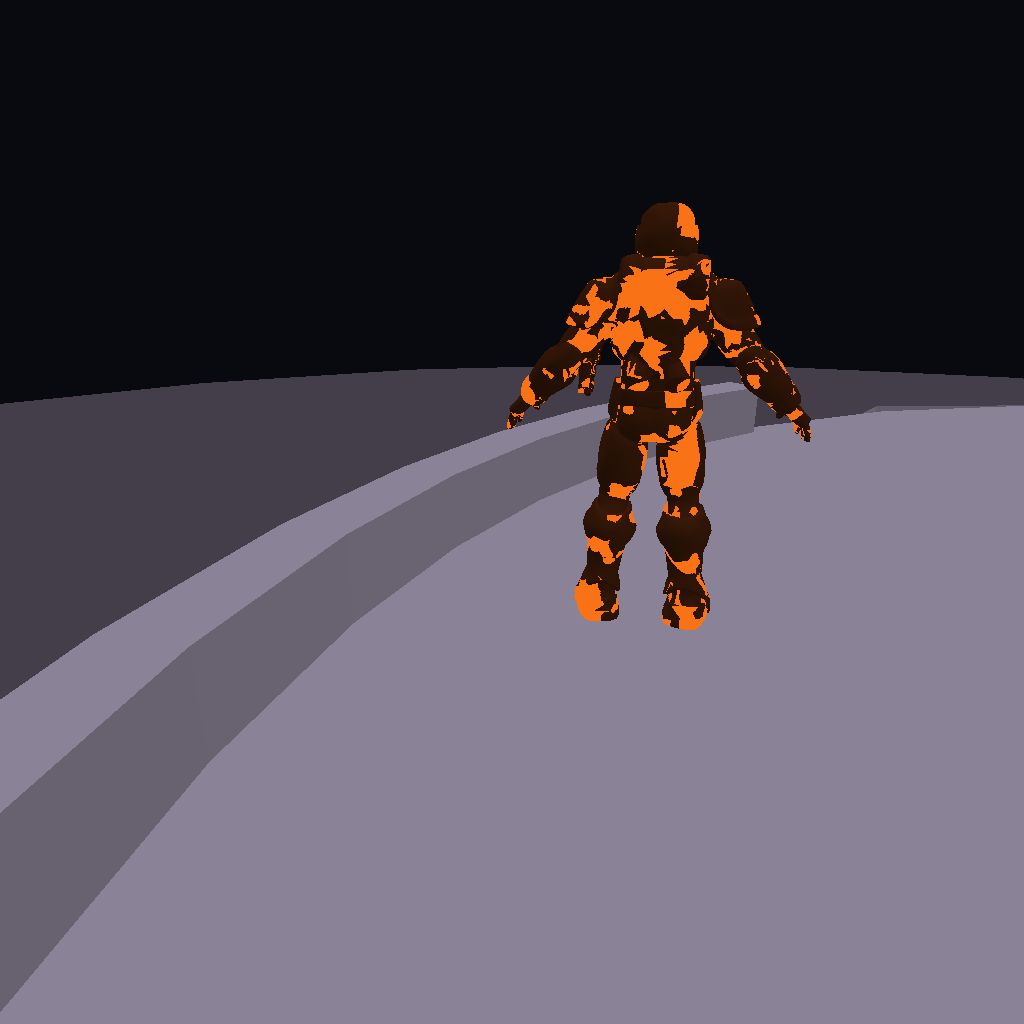
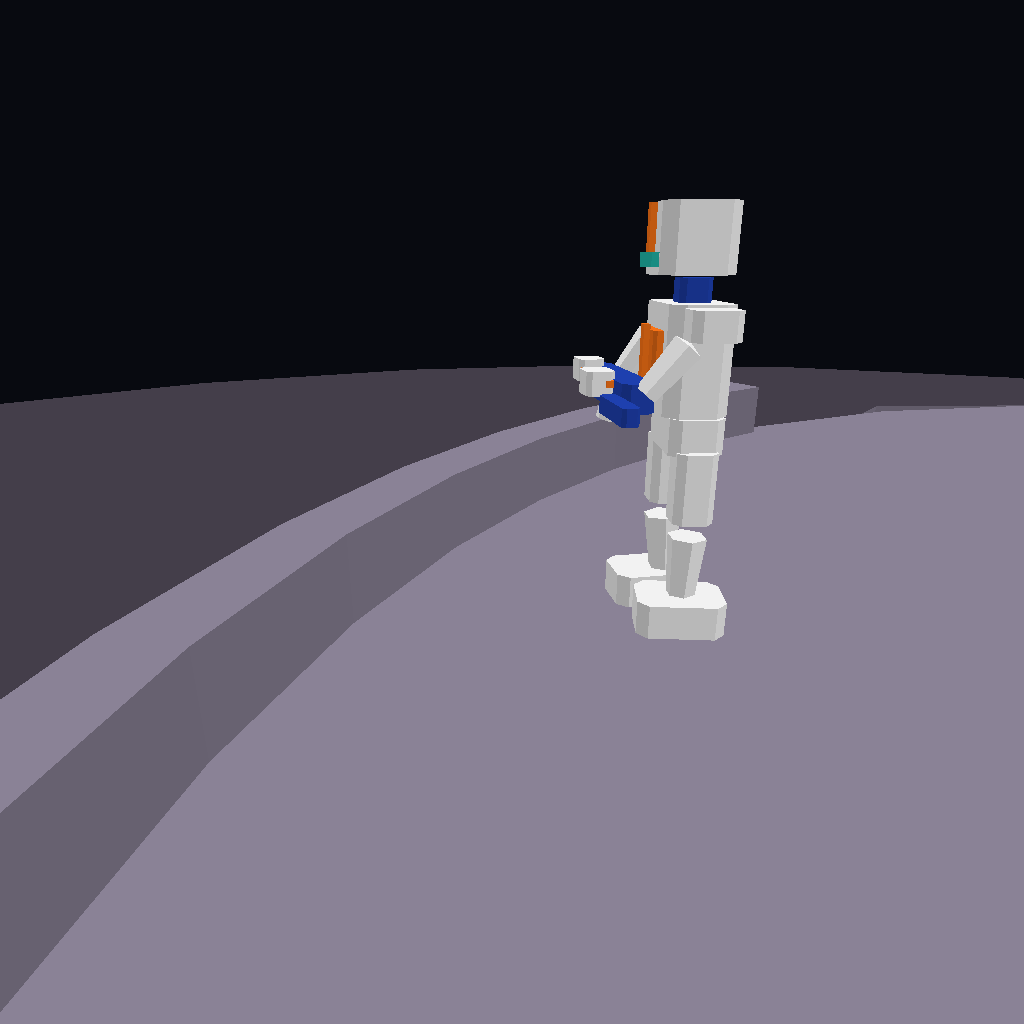
Keep the rail-edge still on the procedural scale figure.
ef528cb painted the Meshy hero cast into the curb shot. The swarmer
stays at deck center and never enters the frame, so that swap was not
a bug-cast change. The curb, deck, and sky already matched main; only
the figure differed. The scale figure is the procedural starter hero
again, and the committed still is the main frame.

Changed region(s): [[0.5, 0.1875, 0.8125, 0.625]]

diff --git a/crates/meshes/src/preview.rs b/crates/meshes/src/preview.rs
@@ -53,7 +53,6 @@ pub fn raster_model(id: &str, width: u32, height: u32) -> Vec<u8> {
             [0.0, 0.0, 0.0],
             bg,
             &[],
-            None,
         );
     }
     let palette = palette_of();
@@ -509,7 +508,7 @@ fn draw(
     open_shell: bool,
     camera: Option<([f32; 3], [f32; 3], f32)>,
 ) -> Vec<u8> {
-    draw_scene(visual, palette, width, height, silhouette, open_shell, camera, [0.0, 0.0, 0.0], BG, &[], None)
+    draw_scene(visual, palette, width, height, silhouette, open_shell, camera, [0.0, 0.0, 0.0], BG, &[])
 }
 
 /// Bug at `shift`, plus optional world meshes (the arena), on `bg`.
@@ -524,7 +523,6 @@ fn draw_scene(
     shift: [f32; 3],
     bg: [u8; 3],
     extras: &[(&crate::MeshData, [f32; 4])],
-    hero_at: Option<[f32; 3]>,
 ) -> Vec<u8> {
     let w = width.max(8);
     let h = height.max(8);
@@ -612,9 +610,6 @@ fn draw_scene(
             }
         }
     }
-    if let Some(at) = hero_at {
-        paint_hero_figure(&mut color, &mut depth, &cam, at, eye);
-    }
     color
 }
 
@@ -690,20 +685,6 @@ fn paint_feedback_parts(
                 fill_tri(color, depth, cam.w, cam.h, projected[0], projected[1], projected[2], rgb);
             }
         }
-    }
-}
-
-fn paint_hero_figure(color: &mut [u8], depth: &mut [f32], cam: &crate::PaintCam, at: [f32; 3], eye: [f32; 3]) {
-    let content = gemini_sim::content::Content::embedded();
-    let id = content.hero.id.as_str();
-    let fx = eye[0] - at[0];
-    let fz = eye[2] - at[2];
-    let yaw = (-fx).atan2(-fz).to_degrees();
-    let pivot = crate::body_pivot(&content, id);
-    let palette = |name: &str| content.palette.key(name);
-    for mesh in crate::hero_pieces(id) {
-        let place = crate::hero_placement(&content, mesh, at, pivot, yaw, 0.0);
-        crate::cast::paint(color, depth, mesh, place, &palette, cam, false);
     }
 }
 
@@ -852,7 +833,6 @@ pub fn raster_in_arena(id: &str, width: u32, height: u32) -> Vec<u8> {
         bug_at,
         bg,
         &extras,
-        None,
     )
 }
 
@@ -894,8 +874,9 @@ pub fn raster_rail_edge(width: u32, height: u32) -> Vec<u8> {
     for piece in &pieces {
         owned.push((piece.mesh.clone(), palette(&piece.palette)));
     }
+    owned.extend(player_reference(&content, stand));
     let extras: Vec<(&crate::MeshData, [f32; 4])> = owned.iter().map(|(mesh, color)| (mesh, *color)).collect();
-    // The cast hero is the scale figure. The swarmer stays at the deck center, outside this rim view.
+    // The hero is the scale figure. The swarmer stays at the deck center, outside this rim view.
     draw_scene(
         bug("swarmer"),
         &palette,
@@ -907,8 +888,36 @@ pub fn raster_rail_edge(width: u32, height: u32) -> Vec<u8> {
         [platform.center.x, deck, platform.center.z],
         bg,
         &extras,
-        Some(stand),
     )
+}
+
+/// Starter hero, feet on `at`, as a scale figure. Portrait framing is removed.
+fn player_reference(content: &gemini_sim::content::Content, at: [f32; 3]) -> Vec<(crate::MeshData, [f32; 4])> {
+    let id = content.hero.id.as_str();
+    let hero = content.heroes.iter().find(|hero| hero.id == id).expect("starter hero");
+    let parts = crate::portrait::build(&content.heroes_visual, id).expect("starter body");
+    let mut min_y = f32::MAX;
+    let mut cx = 0.0;
+    let mut cz = 0.0;
+    let mut count = 0.0;
+    for part in &parts {
+        for p in &part.mesh.positions {
+            min_y = min_y.min(p[1]);
+            cx += p[0];
+            cz += p[2];
+            count += 1.0;
+        }
+    }
+    let shift = [at[0] - cx / count, at[1] - min_y, at[2] - cz / count];
+    parts
+        .into_iter()
+        .map(|part| {
+            let mut mesh = part.mesh;
+            crate::geom::translate(&mut mesh, shift);
+            let key = if part.palette == "accent" { hero.accent_key.as_str() } else { part.palette.as_str() };
+            (mesh, content.palette.key(key))
+        })
+        .collect()
 }
 
 /// One software frame of `count` swarmers on the deck. Used to time a client-style
